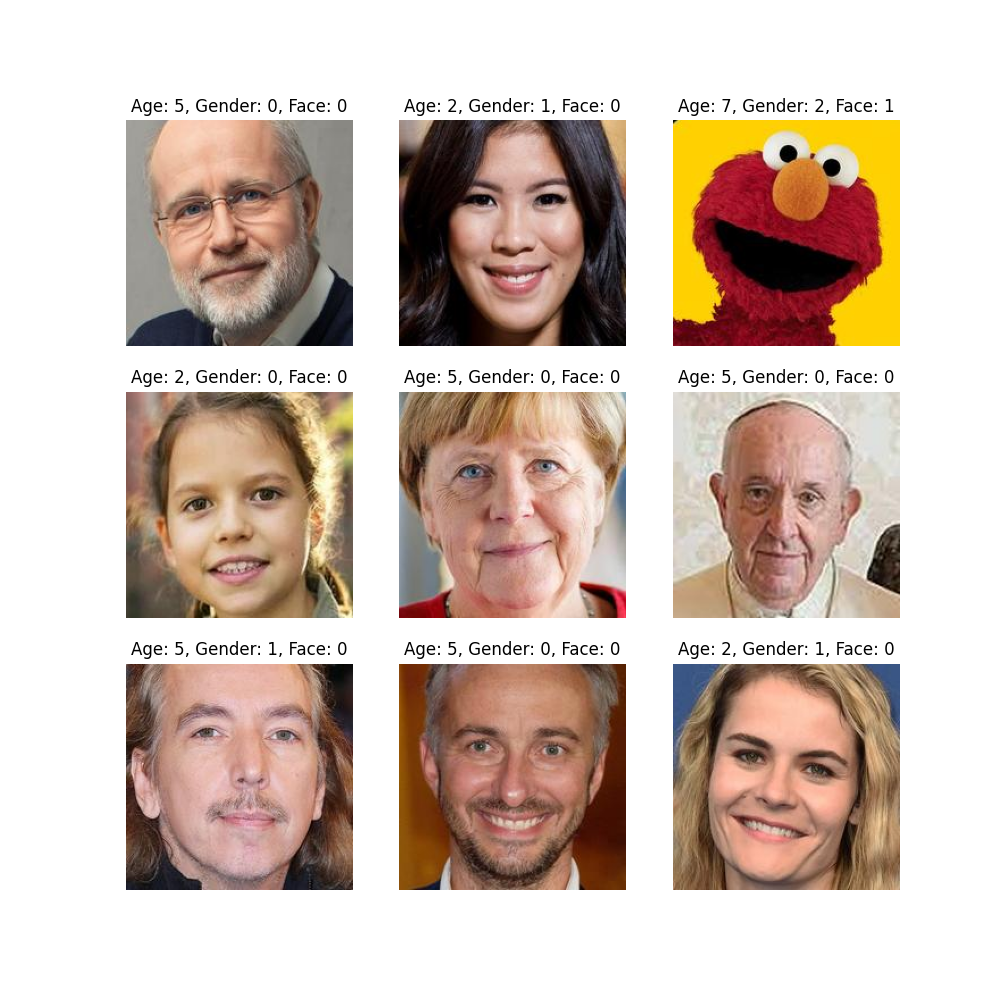
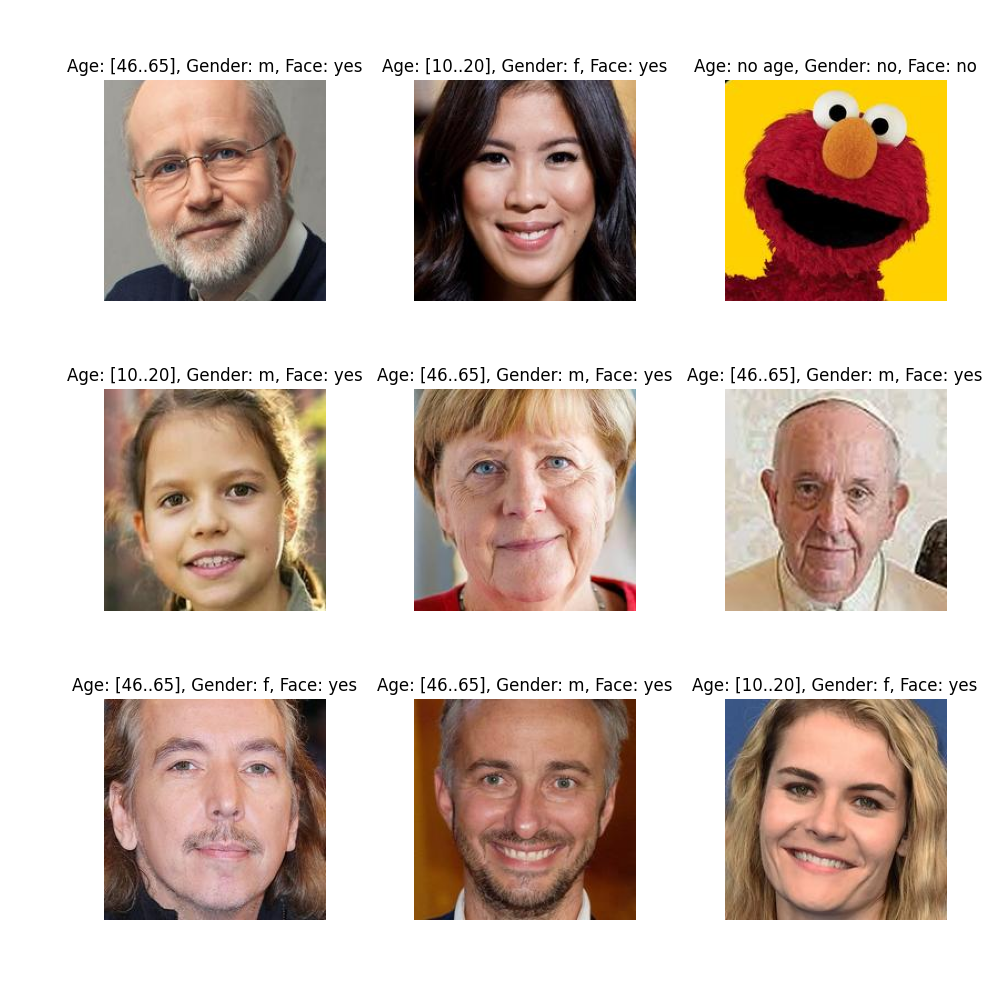
update prediction

diff --git a/MS3/prediction/predict_classification.py b/MS3/prediction/predict_classification.py
@@ -62,7 +62,53 @@ predicted_age_labels = np.argmax(predictions_age, axis=1)
 predicted_gender_labels = np.argmax(predictions_gender, axis=1)
 predicted_face_labels = np.argmax(predictions_face, axis=1)
 
+# revert age classification
+age_array = []
+for age in predicted_age_labels:
+    age_range = ''
+    if age == 0:
+        age_range = '[1..2]'
+    elif age == 1:
+        age_range = '[3..9]'
+    elif age == 2:
+        age_range = '[10..20]'
+    elif age == 3:
+        age_range = '[21..27'
+    elif age == 4:
+        age_range = '[28..45]'
+    elif age == 5:
+        age_range = '[46..65]'
+    elif age == 6:
+        age_range = '[66..116]'
+    elif age == 7:
+        age_range = 'no age'
+
+    age_array.append(age_range)
+
+# revert face classification
+face_array = []
+for face in predicted_face_labels:
+    fa = ''
+    if face == 0 :
+        fa = 'yes'
+    else:
+        fa='no'
+    face_array.append(fa)
+
+# revert gender classification
+gender_array = []
+for gender in predicted_gender_labels:
+    ge = ''
+    if gender == 0:
+        ge = 'm'
+    elif gender == 1:
+        ge = 'f'
+    else:
+        ge = 'no'
+    gender_array.append(ge)
+
 fig, axs = plt.subplots(3, 3, figsize=(10, 10))
+plt.subplots_adjust(top=0.92, bottom=0.08, left=0.10, right=0.95, hspace=0.4, wspace=0.35)
 for i in range(3):
     for j in range(3):
         index = i * 3 + j
@@ -72,7 +118,7 @@ for i in range(3):
         axs[i, j].axis('off')
 
         # title
-        title = f"Age: {predicted_age_labels[index]}, Gender: {predicted_gender_labels[index]}, Face: {predicted_face_labels[index]}"
+        title = f"Age: {age_array[index]}, Gender: {gender_array[index]}, Face: {face_array[index]}"
         axs[i, j].set_title(title)
 plt.savefig('/home/sarah/Deep-Learning/MS3/Model/{}/promis_classification.png'.format(modelType))
 plt.show()
